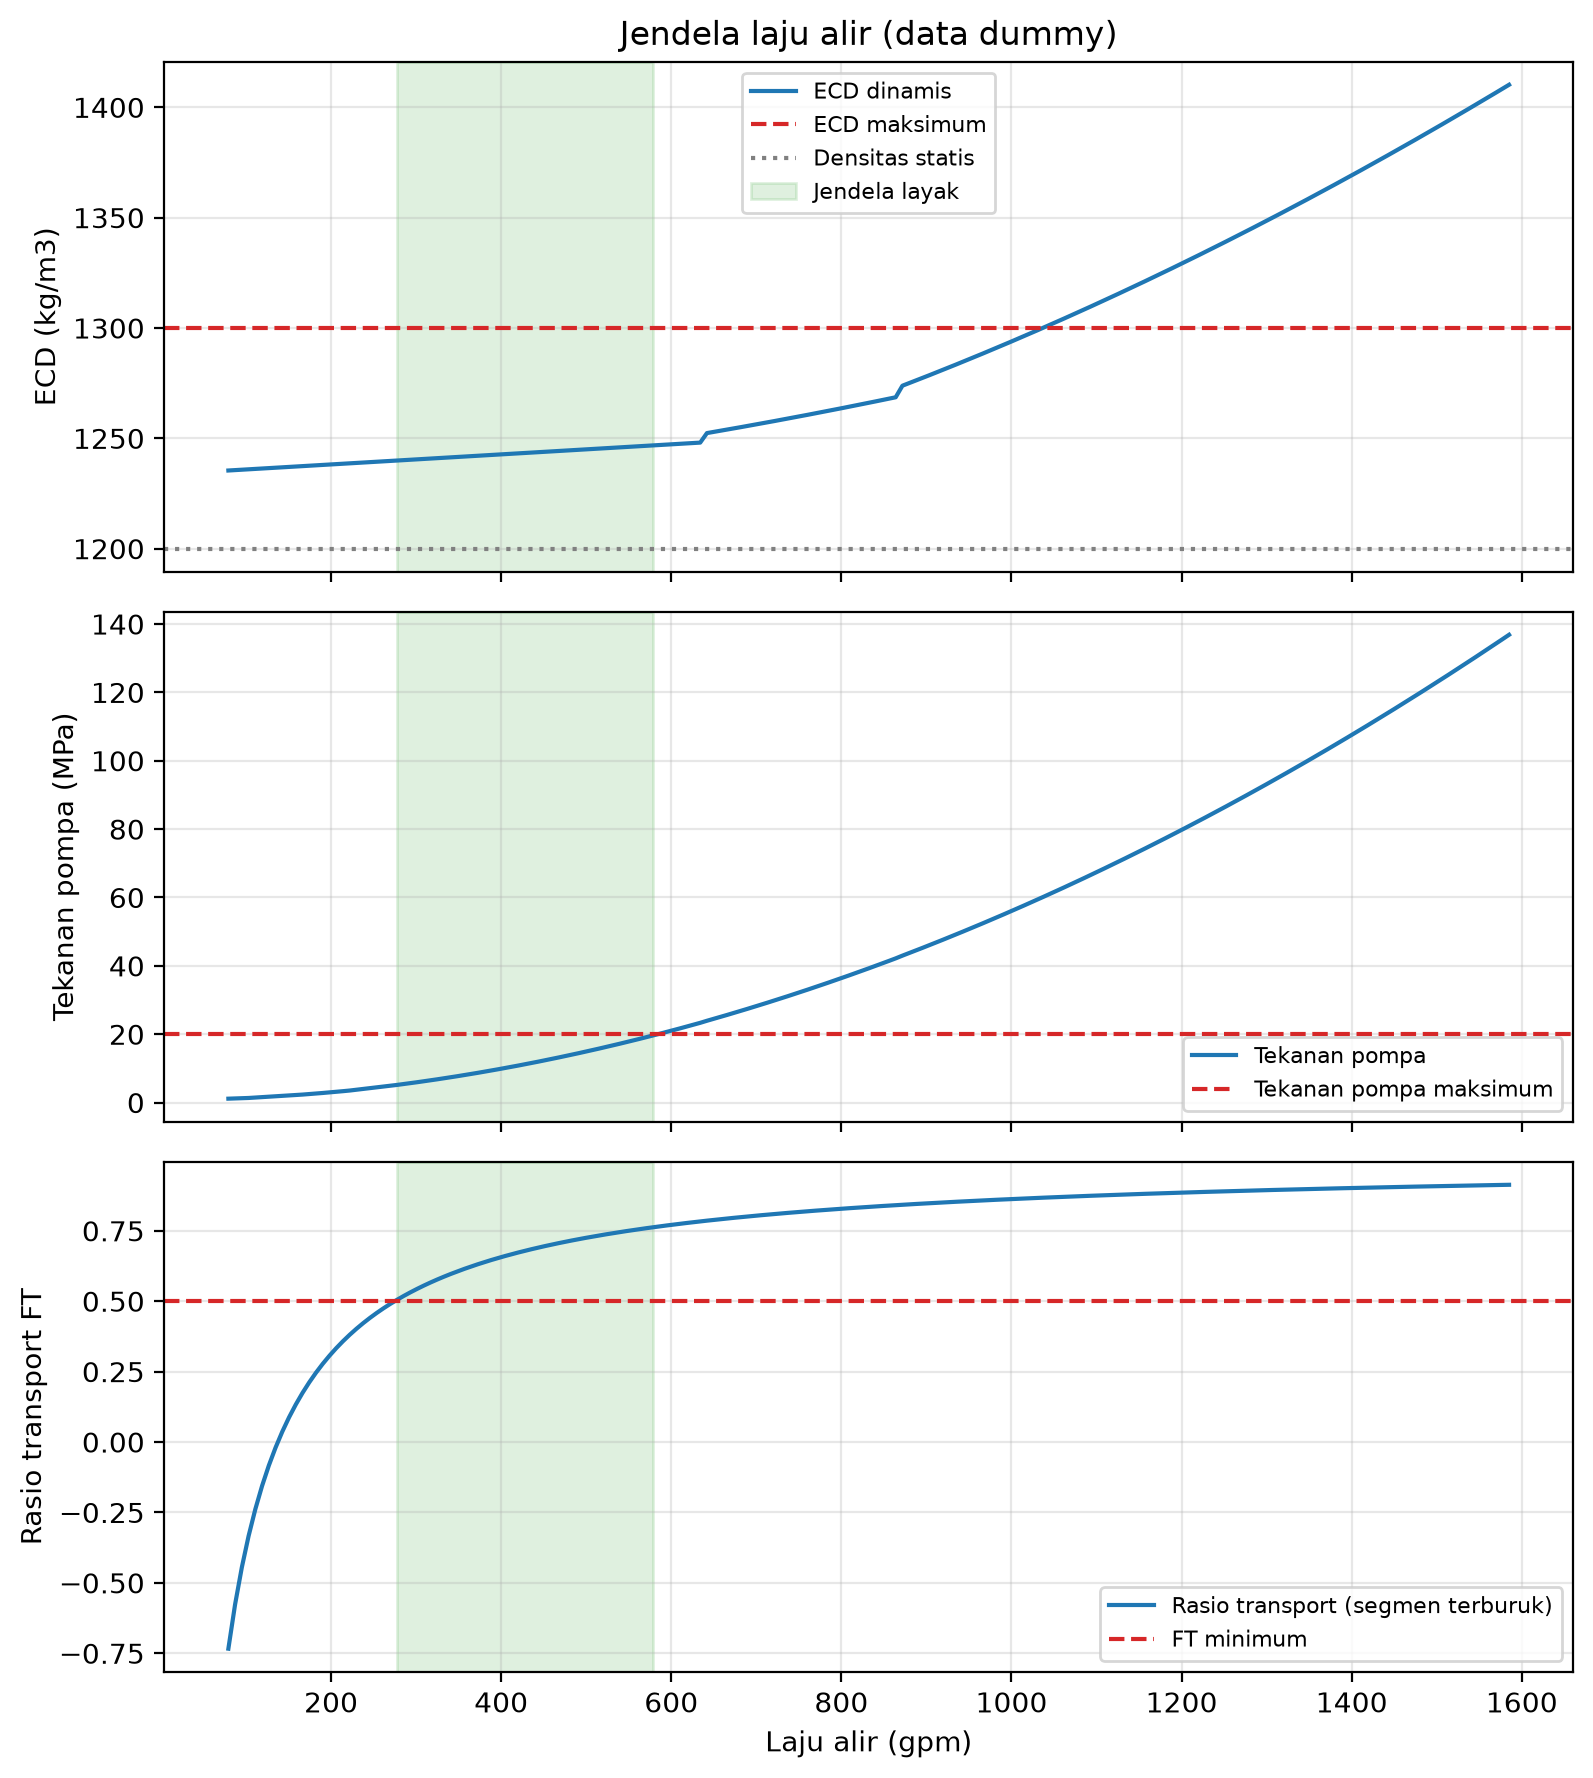
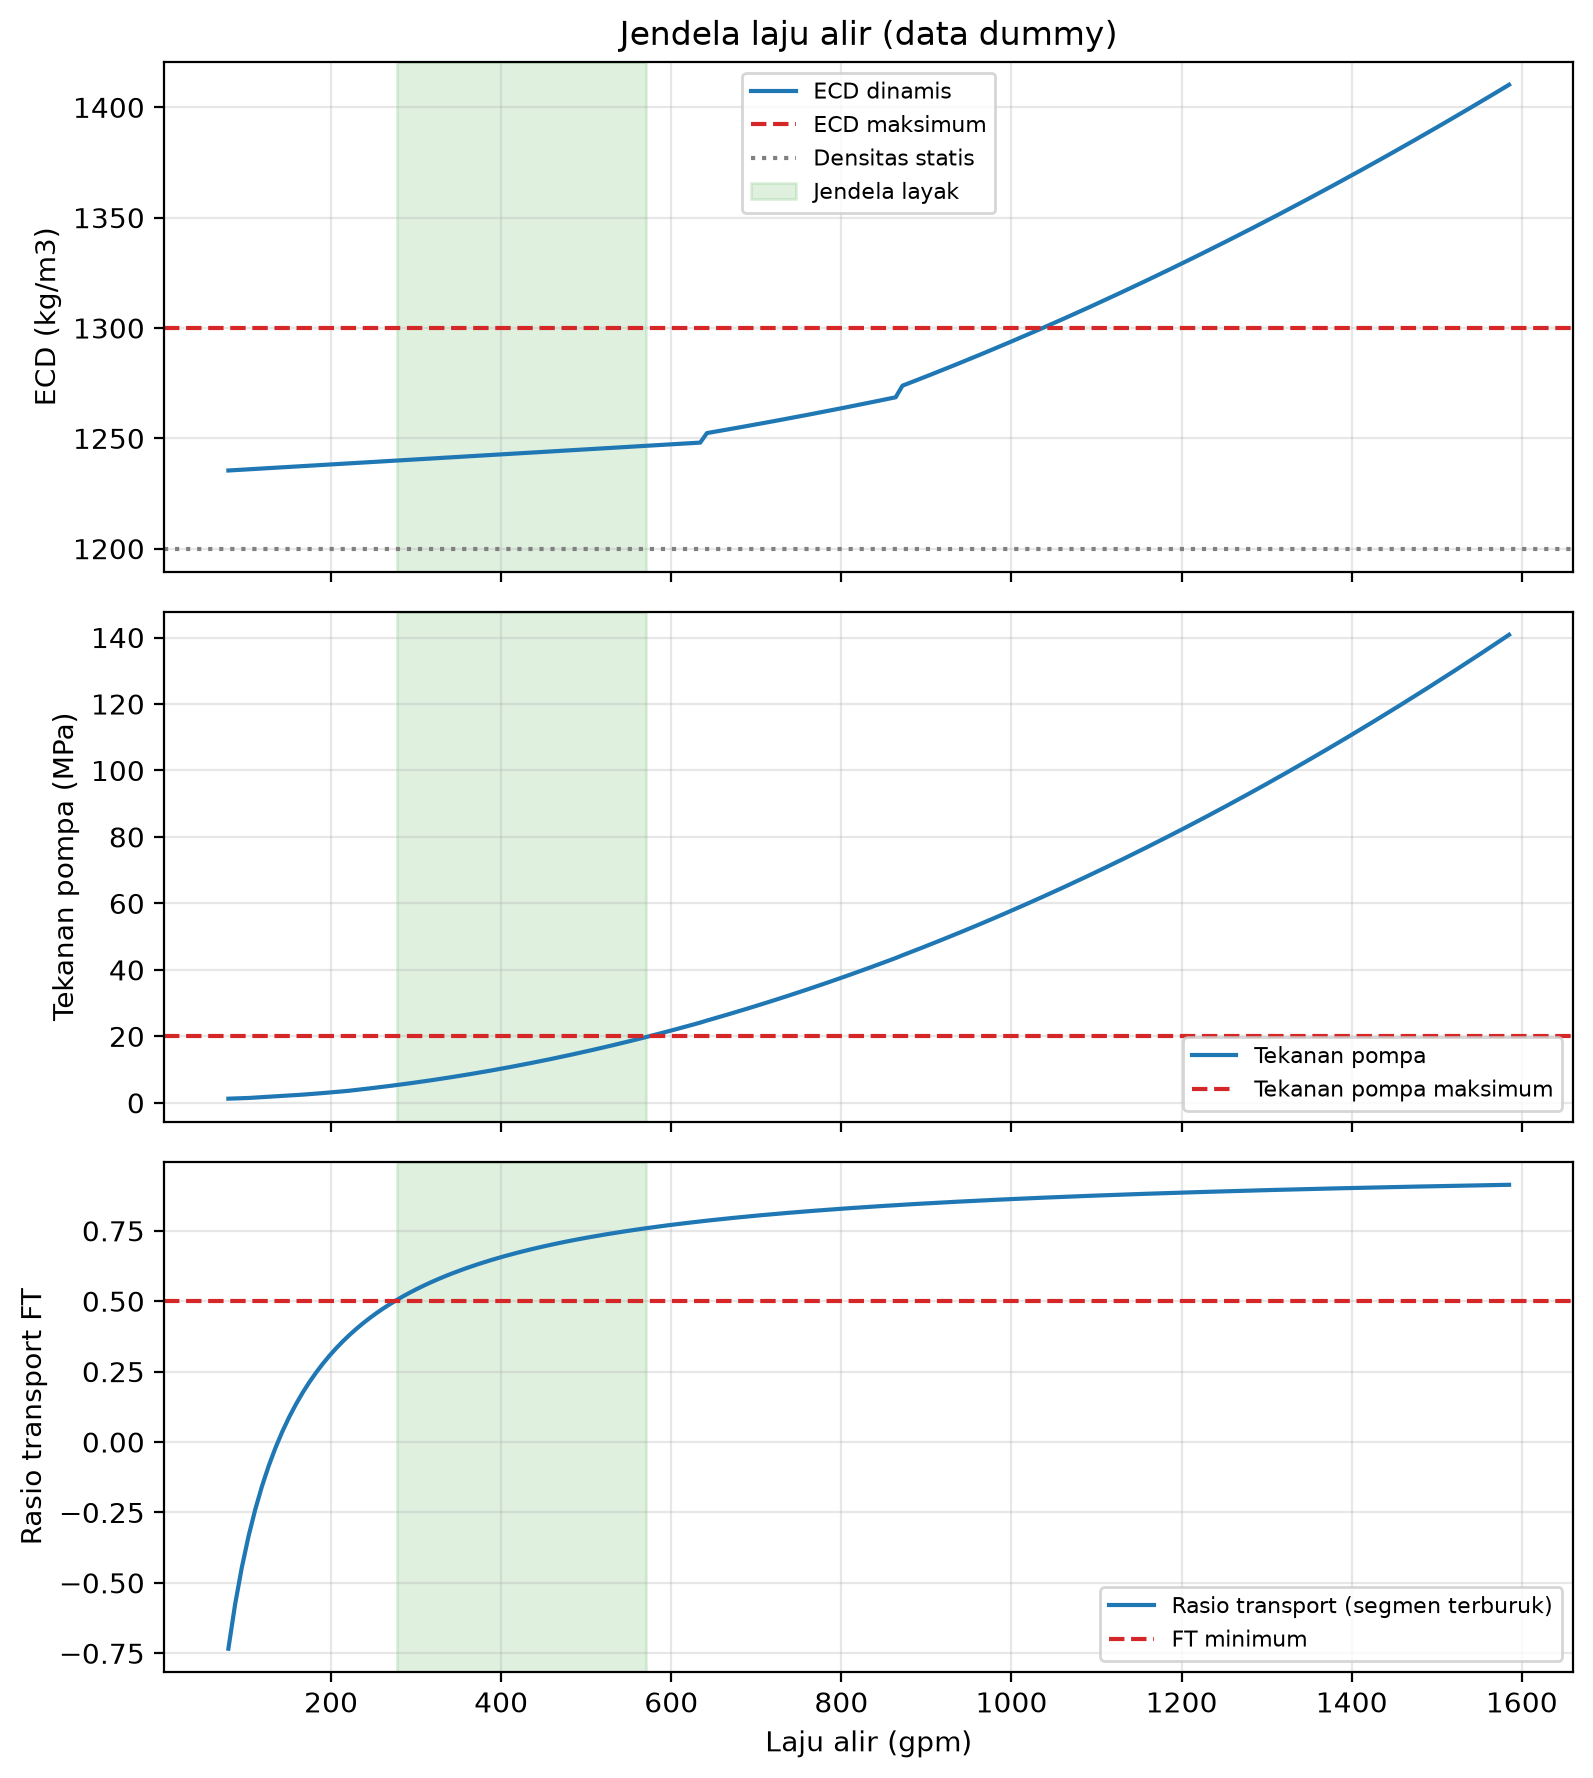
Gabungkan README trajectory dan hidrolika

diff --git a/demo_window.py b/demo_window.py
@@ -14,3 +14,6 @@ print('Jendela layak (m3/s):', res['window'])
 fig = plot_flow_window(res, 1200, 1300.0, 20.0e6, unit='gpm',
                        title='Jendela laju alir (data dummy)')
 fig.savefig('ecd_window.png', dpi=200, bbox_inches='tight')
+
+import matplotlib.pyplot as plt
+plt.show()

diff --git a/README.md b/README.md
@@ -1,38 +1,149 @@
-# Drilling Toolkit: Trajectory
+# Drilling Toolkit
 
-Modul Python untuk menghitung trajectory sumur dari data survei dengan metode
-minimum curvature: TVD, Northing, Easting, dogleg severity (DLS), vertical
-section, dan closure, lengkap dengan grafik 2D dan 3D.
+Kumpulan modul Python untuk perhitungan teknik pemboran, dibangun bertahap dan diuji dengan `pytest`. Saat ini berisi dua bagian utama:
 
-## Persamaan
+- **Trajectory**: trajectory sumur dari data survei dengan metode minimum curvature (TVD, Northing, Easting, DLS, vertical section, closure), lengkap dengan grafik 2D dan 3D.
+- **Hidrolika lumpur**: tekanan hidrostatik, reologi Bingham, ECD statis dan dinamis, tekanan pompa, hole cleaning, dan jendela laju alir.
+
+Status: trajectory dan hidrolika (tahap 2.1 sampai 2.6) selesai. Modul MSE belum dimulai.
+
+## Struktur
+
+```
+drilling-toolkit/
+├── src/
+│   ├── __init__.py
+│   ├── design.py        # (lengkapi: deskripsi singkat modul ini)
+│   ├── hydraulics.py    # hidrostatik, reologi, ECD, pompa, hole cleaning
+│   ├── plots.py         # plot trajectory dan jendela laju alir
+│   ├── trajectory.py    # minimum curvature, DLS, vertical section, closure
+│   └── units.py         # konversi satuan lapangan <-> SI
+├── tests/
+│   ├── test_design.py
+│   ├── test_hydraulics.py
+│   ├── test_plots.py
+│   └── test_trajectory.py
+├── outputs/             # gambar hasil (well_2d.png, well_3d.png, ecd_window.png)
+├── main.py              # contoh trajectory
+├── demo_window.py       # contoh jendela laju alir
+├── requirements.txt
+├── pytest.ini
+└── README.md
+```
+
+## Instalasi dan pemakaian
+
+    python -m venv .venv
+    .venv\Scripts\Activate.ps1
+    pip install -r requirements.txt
+
+    python main.py            # trajectory sumur contoh
+    python demo_window.py     # jendela laju alir (data dummy)
+    pytest                    # jalankan semua tes
+
+## Modul trajectory
+
+Menghitung trajectory sumur dari data survei dengan metode minimum curvature.
+
+### Persamaan
+
 - Sudut dogleg: cos β = cos(I2 - I1) - sin I1 sin I2 (1 - cos(A2 - A1))
 - Ratio factor: RF = (2/β) tan(β/2)
 - ΔN, ΔE, ΔTVD = (ΔMD/2)(komponen arah stasiun 1 + stasiun 2) x RF
 - DLS = β / ΔMD x 30 m
 
-Referensi: Sawaryn & Thorogood (2005), SPE 84246; Taylor & Mason (1972), SPE 3362;
-Bourgoyne dkk. (1986), Applied Drilling Engineering.
+### Konvensi
 
-## Instalasi dan pemakaian
-    python -m venv .venv
-    .venv\Scripts\Activate.ps1
-    pip install -r requirements.txt
-    python main.py
+Inklinasi dari vertikal (deg), azimuth dari utara searah jarum jam (deg), MD dan TVD dalam meter, DLS dalam deg/30 m. Azimuth diasumsikan sudah dikoreksi ke acuan koordinat yang sama.
 
-## Konvensi
-Inklinasi dari vertikal (deg), azimuth dari utara searah jarum jam (deg),
-MD dan TVD dalam meter, DLS dalam deg/30 m. Azimuth diasumsikan sudah
-dikoreksi ke acuan koordinat yang sama.
+### Validasi
 
-## Validasi
-`pytest` menjalankan 8 tes: sumur vertikal, interval lurus, busur 90° (hasil
-harus sama dengan jari-jari), sifat fisik (MD >= TVD, jarak lurus <= MD),
-closure, vertical section, dan pembacaan CSV.
+8 tes: sumur vertikal, interval lurus, busur 90° (hasil harus sama dengan jari-jari), sifat fisik (MD >= TVD, jarak lurus <= MD), closure, vertical section, dan pembacaan CSV.
 
-## Contoh hasil
+### Contoh hasil
+
 ![Plan dan section view](outputs/well_2d.png)
 ![Trajectory 3D](outputs/well_3d.png)
 
-## Keterbatasan
-Model deterministik: tanpa ketidakpastian survei (ellipse of uncertainty).
-Data contoh bersifat sintetis.
+### Keterbatasan
+
+Model deterministik: tanpa ketidakpastian survei (ellipse of uncertainty). Data contoh bersifat sintetis.
+
+## Modul hidrolika
+
+Semua fungsi di `src/hydraulics.py` memakai satuan SI. Konversi dari satuan lapangan ada di `src/units.py`.
+
+### Fungsi
+
+| Tahap | Fungsi | Isi |
+|---|---|---|
+| 2.1 | `hydrostatic_pressure`, `ecd` | tekanan hidrostatik dan ECD statis |
+| 2.2a | `pipe_area`, `annulus_area`, `mean_velocity` | luas penampang dan kecepatan rata-rata |
+| 2.2b | `bingham_dpdl_pipe`, `bingham_dpdl_annulus` | gradien tekanan Bingham, aliran laminar |
+| 2.2c | `reynolds_pipe`, `reynolds_annulus`, `turbulent_dpdl_*`, `dpdl_pipe`, `dpdl_annulus` | Reynolds, gesekan turbulen, pemilihan rezim otomatis |
+| 2.3 | `annulus_pressure_loss`, `ecd_dynamic` | kehilangan tekanan annulus multi-segmen dan ECD dinamis |
+| 2.4 | `pipe_pressure_loss`, `total_flow_area`, `bit_pressure_drop`, `hydraulic_power`, `pump_pressure` | tekanan pipa, nozzle bit, dan tekanan pompa total |
+| 2.5 | `slip_velocity`, `transport_ratio`, `min_flow_rate_hole_cleaning`, `flow_rate_window` | hole cleaning dan jendela laju alir |
+| 2.6 | `plot_flow_window` (di `src/plots.py`) | plot ECD, tekanan pompa, dan rasio transport |
+
+### Persamaan utama
+
+- Pipa (laminar, Bingham): dP/dL = 32 x PV x v / D² + 16 x YP / (3 x D)
+- Annulus (laminar, celah sempit): dP/dL = 48 x PV x v / celah² + 6 x YP / celah
+- Viskositas efektif: pipa μe = PV + YP x D / (6 x v); annulus μe = PV + YP x celah / (8 x v)
+- Reynolds: pipa Re = ρ x v x D / μe; annulus Re = ρ x v x (0,8165 x celah) / μe
+- Turbulen (Blasius): f = 0,0791 / Re^0,25; dP/dL = 2 x f x ρ x v² / D (annulus: D diganti 0,8165 x celah, Re memakai PV)
+- ECD dinamis: ECD = ρ + APL / (g x TVD). Gesekan memakai MD, hidrostatik memakai TVD.
+- Bit: ΔP = ρ x Q² / (2 x Cd² x TFA²), Cd = 0,95
+- Kecepatan jatuh serpihan: v_slip = √(4 x g x d x (ρ_serpih - ρ) / (3 x Cd x ρ)), Cd serpihan = 1,5
+- Rasio transport: FT = 1 - v_slip / v_annulus
+
+### Contoh
+
+```python
+from src.hydraulics import flow_rate_window
+from src.plots import plot_flow_window
+from src.units import nozzle32_to_m
+
+pipe = [(1000, 0.1086), (200, 0.0714)]          # (panjang m, ID m)
+ann = [(1000, 0.25, 0.127), (200, 0.25, 0.18)]  # (panjang m, d lubang m, d pipa m)
+nozzles = [nozzle32_to_m(13)] * 3
+
+res = flow_rate_window(1200, pipe, ann, nozzles, 0.025, 6.0,
+                       tvd=1200, ecd_max=1300.0, p_max=20.0e6,
+                       d_cut=0.006, rho_cut=2500, ft_min=0.5, p_surface=1.0e5)
+print(res['window'])    # (q_min, q_max) dalam m3/s, atau None
+```
+
+![Jendela laju alir](outputs/ecd_window.png)
+
+### Asumsi dan keterbatasan
+
+- Model reologi Bingham Plastic, dengan pendekatan celah sempit untuk annulus.
+- Batas laminar/turbulen memakai Re = 2100 (penyederhanaan). Kurva gesekan melompat sedikit di batas itu. Metode bilangan Hedstrom bisa memperhalusnya.
+- Gesekan turbulen memakai korelasi Blasius (dinding halus). Kehilangan tekanan di tool joint, eksentrisitas pipa, dan model Power Law belum dihitung.
+- Hole cleaning hanya untuk sumur vertikal (rezim Newton). Hasilnya konservatif di laju rendah. Sumur miring perlu model lain.
+- Batas rasio transport (default 0,5) adalah aturan praktis, bukan hukum.
+- Pencarian jendela laju alir memakai pemindaian grid karena gesekan tidak mulus di batas rezim.
+- Data di tes dan di `demo_window.py` adalah data dummy, bukan data lapangan.
+
+## Konvensi umum
+
+- Hidrolika: satuan internal selalu SI (m, m3/s, Pa, kg/m3, Pa.s). Konversi hanya di `src/units.py`.
+- Trajectory: sudut dalam derajat, DLS dalam deg/30 m (lihat bagian trajectory).
+- Nama file tes harus `test_<modul>.py`, dan modul sumber harus bisa diimpor sebagai `src.<modul>`.
+- Setiap fungsi baru mendapat tes yang bisa dicek dengan hitungan manual dan, bila ada, dibandingkan dengan rumus lapangan.
+
+## Validasi
+
+`pytest` menjalankan 55 tes: 4 desain, 8 trajectory, 39 hidrolika, dan 4 plot. Hasil yang diharapkan saat ini: 55 passed.
+
+## Referensi
+
+- Sawaryn, S. J. & Thorogood, J. L. (2005). SPE 84246.
+- Taylor, H. L. & Mason, M. C. (1972). SPE 3362.
+- Bourgoyne, A. T. dkk. (1986). *Applied Drilling Engineering*. SPE Textbook Series.
+- API RP 13D. *Rheology and Hydraulics of Oil-well Drilling Fluids*.
+- Moore, P. L. (1974). *Drilling Practices Manual*.
+
+Cek edisi dan nomor halaman langsung di sumbernya sebelum dikutip di laporan.
